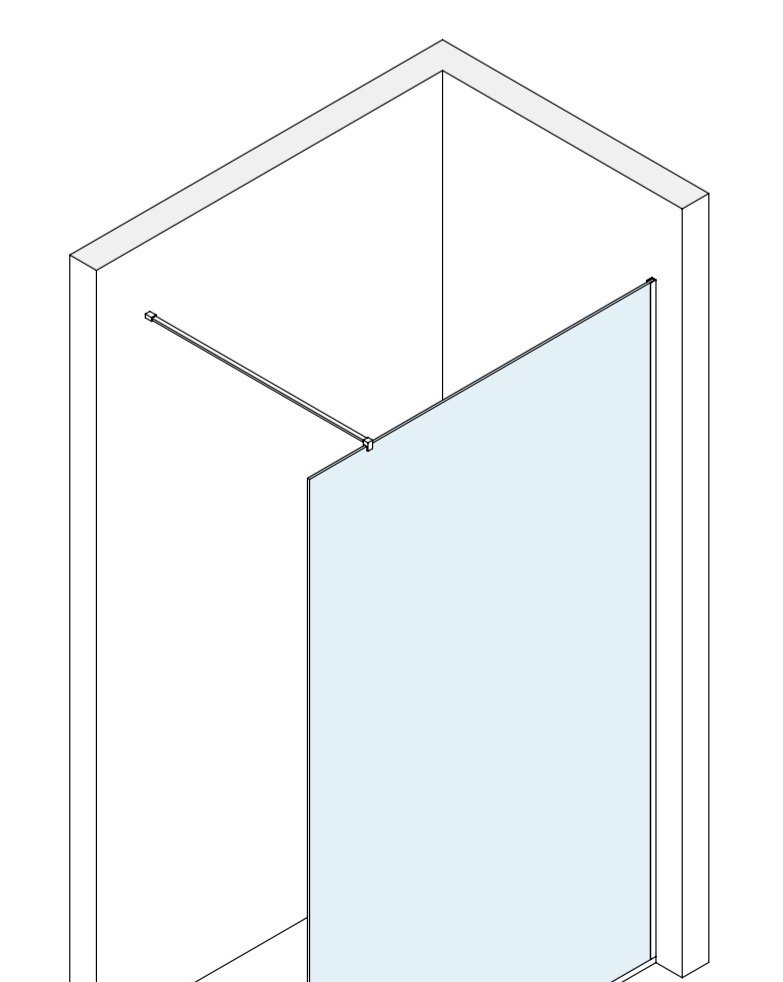
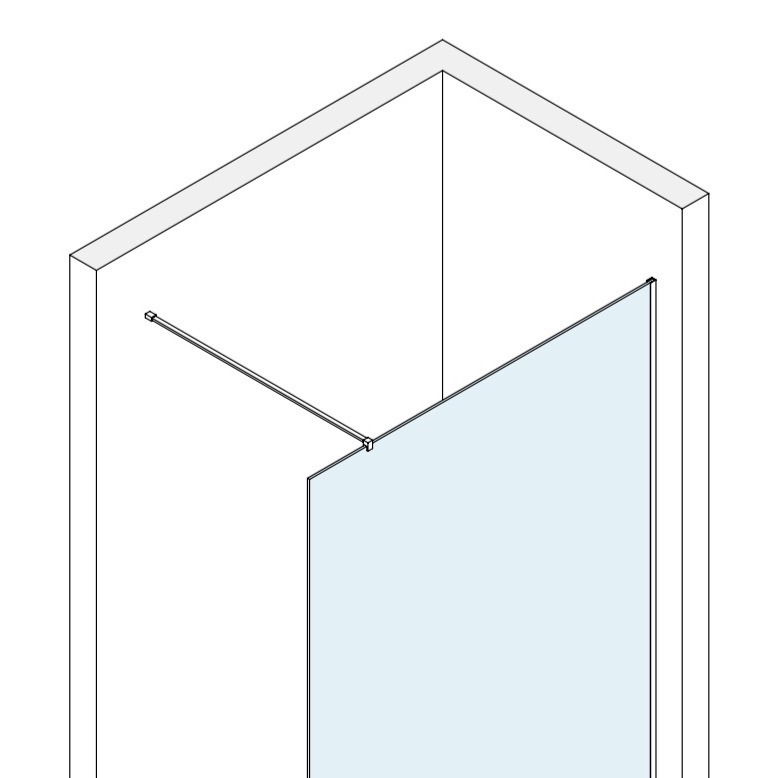
feat(cabine-dus): 2D preview + tavan images recropped (35% bottom removed)

diff --git a/src/ShowerPreview2D.tsx b/src/ShowerPreview2D.tsx
@@ -1,112 +1,248 @@
-export default function ShowerPreview2D({ dimensions, glassType, doorType, treatment, includeLed }) {
-  const width = parseFloat(dimensions.width) || 0.9;
-  const depth = parseFloat(dimensions.depth) || 0.9;
-  const height = parseFloat(dimensions.height) || 2.0;
+export default function ShowerPreview2D({
+  width,
+  depth,
+  height,
+  enclosure,
+  subtype,
+  glassType,
+  finish,
+  treatment,
+  hasLateral,
+  lateralCount = 0,
+}) {
+  const w = parseFloat(width) || 0.9;
+  const h = parseFloat(height) || 2.0;
+  const d = hasLateral ? (parseFloat(depth) || 0.9) : 0;
 
-  const W = 340, H = 200;
-  const MARGIN = 28;
-  // Top-down floor plan
-  const scale = Math.min((W * 0.45 - MARGIN) / width, (H - MARGIN * 2) / depth);
-  const cabW = width * scale;
-  const cabD = depth * scale;
-  const x0 = MARGIN + 20;
-  const y0 = (H - cabD) / 2;
+  const VW = 340, VH = 240;
+  const MARGIN = 24;
+  const isParavan = enclosure === "paravan";
+  const isFixBatant = enclosure === "fix-batant";
+  const isCulisant = enclosure?.startsWith("culisant");
+  const hasBar = subtype?.includes("bara");
+  const isTavan = subtype?.includes("tavan");
+  const isPerete = subtype?.includes("perete");
+  const isWalkin = subtype?.includes("walkin");
 
-  // Side elevation
-  const scaleH = Math.min((W * 0.4) / width, (H - MARGIN * 2) / height);
-  const elW = width * scaleH;
-  const elH = height * scaleH;
-  const ex0 = W * 0.55;
-  const ey0 = (H - elH) / 2;
+  // Scale: fit height in VH-2*MARGIN
+  const maxDrawH = VH - MARGIN * 2;
+  const maxDrawW = VW - MARGIN * 2;
+  const scaleH = maxDrawH / Math.max(h, 0.5);
+  const scaleW = maxDrawW / Math.max(isParavan ? w * 1.2 : w * 1.5, 0.5);
+  const scale = Math.min(scaleH, scaleW);
 
-  const glassAlpha = treatment === "frosted" ? 0.55 : treatment === "nano" ? 0.2 : 0.13;
-  const glassStroke = treatment === "frosted" ? "rgba(200,200,220,0.6)" : "rgba(180,220,255,0.5)";
-  const glassFill = treatment === "frosted"
-    ? `rgba(200,200,220,${glassAlpha})`
-    : `rgba(180,220,255,${glassAlpha})`;
+  const panelW = w * scale;
+  const panelH = h * scale;
+  const floorY = VH - MARGIN;
+  const topY = floorY - panelH;
+
+  // Center the drawing
+  const totalW = isFixBatant ? panelW * 1.2 : isCulisant ? panelW * 1.5 : panelW;
+  const x0 = MARGIN + (maxDrawW - totalW) / 2;
+
+  // Glass appearance
+  const isFrosted = finish === "satin";
+  const glassFill = isFrosted
+    ? "rgba(200,200,220,0.25)"
+    : "rgba(180,220,255,0.18)";
+  const glassStroke = isFrosted
+    ? "rgba(200,200,220,0.6)"
+    : "rgba(180,220,255,0.55)";
+  const gold = "rgba(200,169,110,0.85)";
+  const goldFaint = "rgba(200,169,110,0.35)";
+
+  // Bar height (waist level, ~1m from floor)
+  const barY = floorY - 1.0 * scale;
+
+  // Draw glass panel helper
+  const GlassPanel = ({ x, y, wd, ht, strokeW = 1.5, rx = 1 }) => (
+    <rect x={x} y={y} width={wd} height={ht} fill={glassFill} stroke={glassStroke} strokeWidth={strokeW} rx={rx} />
+  );
+
+  // Label
+  const Label = ({ x, y, text, anchor = "middle", size = 8 }) => (
+    <text x={x} y={y} textAnchor={anchor} fill="rgba(200,169,110,0.6)" fontSize={size} fontFamily="DM Sans, sans-serif">{text}</text>
+  );
+
+  // Dimension line with arrows
+  const DimLine = ({ x1, y1, x2, y2, label, vert = false }) => {
+    const mx = (x1 + x2) / 2;
+    const my = (y1 + y2) / 2;
+    const offset = 14;
+    return (
+      <g>
+        <line x1={x1} y1={y1} x2={x2} y2={y2} stroke={goldFaint} strokeWidth="0.5" />
+        <line x1={x1} y1={vert ? y1 - 4 : y1} x2={x1} y2={vert ? y1 + 4 : y1} stroke={goldFaint} strokeWidth="0.5" />
+        <line x1={x2} y1={vert ? y2 - 4 : y2} x2={x2} y2={vert ? y2 + 4 : y2} stroke={goldFaint} strokeWidth="0.5" />
+        {vert ? (
+          <>
+            <line x1={x1 - offset} y1={y1} x2={x1 - offset} y2={y2} stroke={goldFaint} strokeWidth="0.5" />
+            <Label x={x1 - offset - 4} y={my + 3} text={label} anchor="end" />
+          </>
+        ) : (
+          <>
+            <line x1={x1} y1={y1 + offset} x2={x2} y2={y2 + offset} stroke={goldFaint} strokeWidth="0.5" />
+            <Label x={mx} y={y1 + offset + 11} text={label} />
+          </>
+        )}
+      </g>
+    );
+  };
+
+  // Wall segment
+  const Wall = ({ x, y, hgt, side = "left" }) => (
+    <rect
+      x={side === "left" ? x - 12 : x}
+      y={y - 4}
+      width={14}
+      height={hgt + 4}
+      fill="rgba(255,255,255,0.06)"
+      stroke="rgba(255,255,255,0.12)"
+      strokeWidth="0.5"
+      rx="2"
+    />
+  );
 
   return (
-    <div style={{ width: "100%", background: "rgba(255,255,255,0.02)", borderRadius: 16, padding: "16px 12px", border: "1px solid rgba(255,255,255,0.07)" }}>
-      <div style={{ display: "flex", justifyContent: "space-around", fontSize: "0.7rem", color: "rgba(240,237,232,0.3)", marginBottom: 8, letterSpacing: "0.07em", textTransform: "uppercase" }}>
-        <span>Plan · Sus</span>
-        <span>Elevație · Față</span>
+    <div style={{ width: "100%", background: "rgba(255,255,255,0.02)", borderRadius: 16, overflow: "hidden", border: "1px solid rgba(255,255,255,0.07)" }}>
+      <div style={{ fontSize: "0.72rem", color: "rgba(240,237,232,0.35)", padding: "10px 0 4px", textAlign: "center", letterSpacing: "0.08em", textTransform: "uppercase" }}>
+        Previzualizare 2D · Ele{"\u00e7"}aie Fa{"\u021b"}ă
       </div>
-      <svg width="100%" viewBox={`0 0 ${W} ${H}`} style={{ display: "block" }}>
 
-        {/* ── FLOOR PLAN ── */}
+      <svg viewBox={`0 0 ${VW} ${VH}`} style={{ width: "100%", display: "block", background: "#0f1117" }}>
+        <rect x="0" y="0" width={VW} height={VH} fill="#0f1117" />
+
         {/* Floor */}
-        <rect x={x0} y={y0} width={cabW} height={cabD}
-          fill="rgba(180,220,255,0.06)" stroke="rgba(180,220,255,0.25)" strokeWidth="1.5" />
-        {/* Back wall */}
-        <rect x={x0} y={y0} width={cabW} height={5} fill={glassFill} stroke={glassStroke} strokeWidth="1" />
-        {/* Left wall */}
-        <rect x={x0} y={y0} width={5} height={cabD} fill={glassFill} stroke={glassStroke} strokeWidth="1" />
-        {/* Door indicator (right side) */}
-        {doorType === "swing" && (
+        <rect x={x0 - 20} y={floorY + 2} width={totalW + 40} height="6" rx="3" fill="#1a1d26" />
+        <line x1={x0 - 16} y1={floorY} x2={x0 + totalW + 16} y2={floorY} stroke="rgba(255,255,255,0.08)" strokeWidth="1" />
+
+        {/* === PARAVAN === */}
+        {isParavan && (
           <>
-            <rect x={x0 + cabW - 4} y={y0} width={4} height={cabD * 0.55} fill={glassFill} stroke={glassStroke} strokeWidth="1" />
-            <path d={`M ${x0 + cabW - 4} ${y0 + cabD * 0.55} A ${cabD * 0.55} ${cabD * 0.55} 0 0 1 ${x0 + cabW - 4 - cabD * 0.55} ${y0}`}
-              fill="none" stroke="rgba(200,169,110,0.4)" strokeWidth="1" strokeDasharray="3,3" />
+            {/* Wall for perete */}
+            {isPerete && <Wall x={x0} y={topY} hgt={panelH} side="left" />}
+
+            {/* Glass panel */}
+            <GlassPanel x={x0 + (isPerete ? 2 : 0)} y={topY} wd={panelW} ht={panelH} />
+
+            {/* Bar stabilizatoare */}
+            {hasBar && (
+              <line
+                x1={x0 - 4} y1={barY} x2={x0 + panelW + 4} y2={barY}
+                stroke={gold} strokeWidth="3" strokeLinecap="round"
+              />
+            )}
+
+            {/* Tavan: top line to indicate ceiling mount */}
+            {isTavan && (
+              <line x1={x0 - 10} y1={topY} x2={x0 + panelW + 10} y2={topY}
+                stroke="rgba(255,255,255,0.1)" strokeWidth="1" />
+            )}
+
+            {/* Walk-in: subtle floor indicator on both sides */}
+            {isWalkin && (
+              <rect x={x0 - 6} y={floorY - 4} width={panelW + 12} height="4" rx="1"
+                fill="rgba(200,169,110,0.1)" />
+            )}
+
+            {/* Height dimension */}
+            <DimLine x1={x0 + panelW + 16} y1={topY} x2={x0 + panelW + 16} y2={floorY} label={`${h}m`} vert />
+
+            {/* Width dimension */}
+            <DimLine x1={x0} y1={floorY} x2={x0 + panelW} y2={floorY} label={`${w}m`} />
           </>
         )}
-        {doorType === "sliding" && (
+
+        {/* === FIX + BATANT === */}
+        {isFixBatant && (
           <>
-            <rect x={x0 + cabW - 4} y={y0} width={4} height={cabD * 0.6} fill={glassFill} stroke={glassStroke} strokeWidth="1" />
-            <rect x={x0 + cabW - 4} y={y0 + cabD * 0.05} width={4} height={cabD * 0.5}
-              fill="rgba(200,169,110,0.2)" stroke="rgba(200,169,110,0.5)" strokeWidth="1"
-              strokeDasharray="2,2" />
+            {/* Walls on both sides */}
+            <Wall x={x0} y={topY} hgt={panelH} side="left" />
+            <Wall x={x0 + totalW} y={topY} hgt={panelH} side="right" />
+
+            {/* Fixed panel (left ~40%) */}
+            <GlassPanel x={x0 + 2} y={topY} wd={panelW * 0.4} ht={panelH} />
+            {/* Door panel (right ~60%) */}
+            <GlassPanel x={x0 + panelW * 0.4 + 4} y={topY} wd={panelW * 0.55} ht={panelH} />
+
+            {/* Hinge indicator */}
+            <line x1={x0 + panelW * 0.4 + 4} y1={topY + 8} x2={x0 + panelW * 0.4 + 4} y2={floorY - 8}
+              stroke={gold} strokeWidth="1.5" strokeDasharray="2,2" />
+
+            {/* Door handle */}
+            <rect x={x0 + panelW * 0.85} y={barY - 4} width="3" height="20" rx="1.5" fill={gold} />
+
+            {/* Ceiling */}
+            <line x1={x0 - 4} y1={topY} x2={x0 + totalW + 4} y2={topY}
+              stroke="rgba(255,255,255,0.08)" strokeWidth="1" />
+
+            <DimLine x1={x0 + totalW + 16} y1={topY} x2={x0 + totalW + 16} y2={floorY} label={`${h}m`} vert />
+            <DimLine x1={x0} y1={floorY} x2={x0 + totalW} y2={floorY} label={`${w}m`} />
           </>
         )}
-        {doorType === "fixed" && (
-          <rect x={x0 + cabW - 4} y={y0} width={4} height={cabD} fill={glassFill} stroke={glassStroke} strokeWidth="1" />
-        )}
-        {/* LED ring */}
-        {includeLed && (
-          <rect x={x0 + 5} y={y0 + 5} width={cabW - 10} height={cabD - 10}
-            fill="none" stroke="rgba(255,220,120,0.35)" strokeWidth="2" strokeDasharray="4,3" />
-        )}
-        {/* Dimension */}
-        <text x={x0 + cabW / 2} y={y0 - 8} textAnchor="middle"
-          fill="rgba(200,169,110,0.6)" fontSize="8" fontFamily="DM Sans">{dimensions.width || "—"}m</text>
-        <text x={x0 - 10} y={y0 + cabD / 2} textAnchor="middle"
-          fill="rgba(200,169,110,0.6)" fontSize="8" fontFamily="DM Sans"
-          transform={`rotate(-90, ${x0 - 10}, ${y0 + cabD / 2})`}>{dimensions.depth || "—"}m</text>
 
-        {/* ── ELEVATION ── */}
-        {/* Glass panels */}
-        <rect x={ex0} y={ey0} width={elW} height={elH}
-          fill={glassFill} stroke={glassStroke} strokeWidth="1.5" rx="1" />
-        {/* Door marker */}
-        {doorType !== "fixed" && (
-          <line x1={ex0 + elW * 0.6} y1={ey0} x2={ex0 + elW * 0.6} y2={ey0 + elH}
-            stroke="rgba(200,169,110,0.5)" strokeWidth="1.5" strokeDasharray="3,3" />
-        )}
-        {/* Floor */}
-        <line x1={ex0 - 8} y1={ey0 + elH} x2={ex0 + elW + 8} y2={ey0 + elH}
-          stroke="rgba(200,169,110,0.4)" strokeWidth="2" />
-        {/* LED strip */}
-        {includeLed && (
-          <rect x={ex0} y={ey0 + elH - 6} width={elW} height={4}
-            fill="rgba(255,220,120,0.4)" rx="2" />
-        )}
-        {/* Height dimension */}
-        <text x={ex0 + elW + 10} y={ey0 + elH / 2} textAnchor="start"
-          fill="rgba(200,169,110,0.6)" fontSize="8" fontFamily="DM Sans">{dimensions.height}m</text>
+        {/* === CULISANT (both types) === */}
+        {isCulisant && (
+          <>
+            {/* Walls */}
+            <Wall x={x0} y={topY} hgt={panelH} side="left" />
+            <Wall x={x0 + totalW} y={topY} hgt={panelH} side="right" />
 
-        {/* Divider */}
-        <line x1={W * 0.5} y1={MARGIN} x2={W * 0.5} y2={H - MARGIN}
-          stroke="rgba(255,255,255,0.06)" strokeWidth="1" />
+            {/* Back fixed panel (darker) */}
+            <GlassPanel x={x0 + 2} y={topY} wd={panelW * 0.68} ht={panelH} />
+            {/* Front sliding panel (lighter, offset right) */}
+            <rect x={x0 + panelW * 0.3} y={topY + 3} width={panelW * 0.48} height={panelH - 6}
+              fill="rgba(180,220,255,0.28)" stroke="rgba(180,220,255,0.7)" strokeWidth="1.5" rx="1" />
+
+            {/* Sliding arrow */}
+            <line x1={x0 + panelW * 0.3} y1={topY - 10} x2={x0 + panelW * 0.78} y2={topY - 10}
+              stroke={goldFaint} strokeWidth="1" markerEnd="url(#arrowGold)" />
+            <polygon points={`${x0 + panelW * 0.78},${topY - 10} ${x0 + panelW * 0.78 - 5},${topY - 13} ${x0 + panelW * 0.78 - 5},${topY - 7}`}
+              fill={goldFaint} />
+
+            {/* Rollers at top */}
+            {!enclosure?.includes("sina") && (
+              <>
+                <circle cx={x0 + panelW * 0.1} cy={topY + 3} r="2.5" fill={gold} />
+                <circle cx={x0 + panelW * 0.65} cy={topY + 3} r="2.5" fill={gold} />
+              </>
+            )}
+
+            {/* Handle on sliding panel */}
+            <rect x={x0 + panelW * 0.5} y={barY - 4} width="3" height="18" rx="1.5" fill={gold} />
+
+            {/* Ceiling */}
+            <line x1={x0 - 4} y1={topY} x2={x0 + totalW + 4} y2={topY}
+              stroke="rgba(255,255,255,0.08)" strokeWidth="1" />
+
+            <DimLine x1={x0 + totalW + 16} y1={topY} x2={x0 + totalW + 16} y2={floorY} label={`${h}m`} vert />
+            <DimLine x1={x0} y1={floorY} x2={x0 + totalW} y2={floorY} label={`${w}m`} />
+          </>
+        )}
+
+        {/* Arrow marker def */}
+        <defs>
+          <marker id="arrowGold" viewBox="0 0 10 10" refX="10" refY="5" markerWidth="6" markerHeight="6" orient="auto">
+            <polygon points="0,0 10,5 0,10" fill={goldFaint} />
+          </marker>
+        </defs>
       </svg>
 
-      <div style={{ display: "flex", gap: 16, justifyContent: "center", marginTop: 6, flexWrap: "wrap" }}>
+      <div style={{ display: "flex", gap: 12, justifyContent: "center", padding: "8px 12px 12px", flexWrap: "wrap" }}>
         {[
-          { color: glassFill, label: treatment === "frosted" ? "Sablat" : "Sticlă" },
-          { color: "rgba(200,169,110,0.6)", label: doorType === "sliding" ? "Ușă Culisantă" : doorType === "swing" ? "Ușă Batantă" : "Paravan Fix" },
-          includeLed && { color: "rgba(255,220,120,0.7)", label: "LED" }
+          { color: glassFill, label: isFrosted ? "Sablat" : glassType === "10mm" ? "Sticlă 10mm" : "Sticlă 8mm" },
+          isParavan && hasBar && { color: gold, label: "Bară stabilizatoare" },
+          isParavan && isTavan && { color: "rgba(255,255,255,0.2)", label: "Până în tavan" },
+          isParavan && isWalkin && { color: "rgba(200,169,110,0.2)", label: "Walk-in" },
+          isParavan && isPerete && { color: "rgba(255,255,255,0.15)", label: "Montare perete" },
+          isFixBatant && { color: gold, label: "Fix + Ușă Batantă" },
+          isCulisant && { color: gold, label: enclosure?.includes("sina") ? "Culisant în Șină" : "Culisant la Vedere" },
+          hasLateral && { color: "rgba(180,220,255,0.25)", label: `${lateralCount} latură${lateralCount > 1 ? "i" : ""} sticlă` },
+          treatment === "enduroshield" && { color: "rgba(180,220,255,0.15)", label: "ENDURO-Shield" },
         ].filter(Boolean).map((item, i) => (
           <div key={i} style={{ display: "flex", alignItems: "center", gap: 5 }}>
-            <div style={{ width: 10, height: 10, borderRadius: 2, background: item.color, border: "1px solid rgba(255,255,255,0.15)" }} />
-            <span style={{ fontSize: "0.72rem", color: "rgba(240,237,232,0.45)" }}>{item.label}</span>
+            <div style={{ width: 8, height: 8, borderRadius: 2, background: item.color, border: "1px solid rgba(255,255,255,0.1)" }} />
+            <span style={{ fontSize: "0.7rem", color: "rgba(240,237,232,0.4)" }}>{item.label}</span>
           </div>
         ))}
       </div>

diff --git a/src/ShowerConfiguratorPage.tsx b/src/ShowerConfiguratorPage.tsx
@@ -4,6 +4,7 @@ import { ConfigHeader, SectionCard, OptionBtn, ToggleOption, NumberInput, QuoteS
 import { usePersistedConfig } from "./usePersistedConfig.js";
 import { getUserMultiplier } from "./lib/user";
 import QuoteModal from "./QuoteModal.js";
+import ShowerPreview2D from "./ShowerPreview2D";
 const TYPE_THUMB = {
   "paravan": "/paravan cu bara.jpg",
   "fix-batant": null,
@@ -210,14 +211,18 @@ export default function ShowerConfiguratorPage() {
         </div>
 
         <div style={{ display: "flex", flexDirection: "column", gap: 20 }}>
-          <PreviewBox title="Previzualizare">
-            <div style={{ textAlign: "center", color: "rgba(240,237,232,0.5)", fontSize: "0.9rem", lineHeight: 1.8 }}>
-              {w && h ? `${w} × ${hasLateral ? d : "—"} × ${h}m` : "Completează dimensiunile"}<br />
-              <span style={{ color: "#c8a96e" }}>{p.enclosureTypes[enclosure]?.name}</span><br />
-              {activeSubtype.name}<br />
-              {forced10mm ? "🔒 10mm (obligatoriu)" : `Sticlă ${effectiveGlassType}`} · {p.glassFinishes?.[finish]?.name}
-            </div>
-          </PreviewBox>
+          <ShowerPreview2D
+            width={width}
+            depth={depth}
+            height={height}
+            enclosure={enclosure}
+            subtype={subtype}
+            glassType={effectiveGlassType}
+            finish={finish}
+            treatment={inclEnduro ? "enduroshield" : undefined}
+            hasLateral={hasLateral}
+            lateralCount={activeSubtype.lateral}
+          />
 
           <QuoteSidebar quote={quote} isFormValid={isValid} calculating={calculating}
             onCalculate={calculate} onReset={() => setQuote(null)} onSolicita={() => setShowModal(true)}
